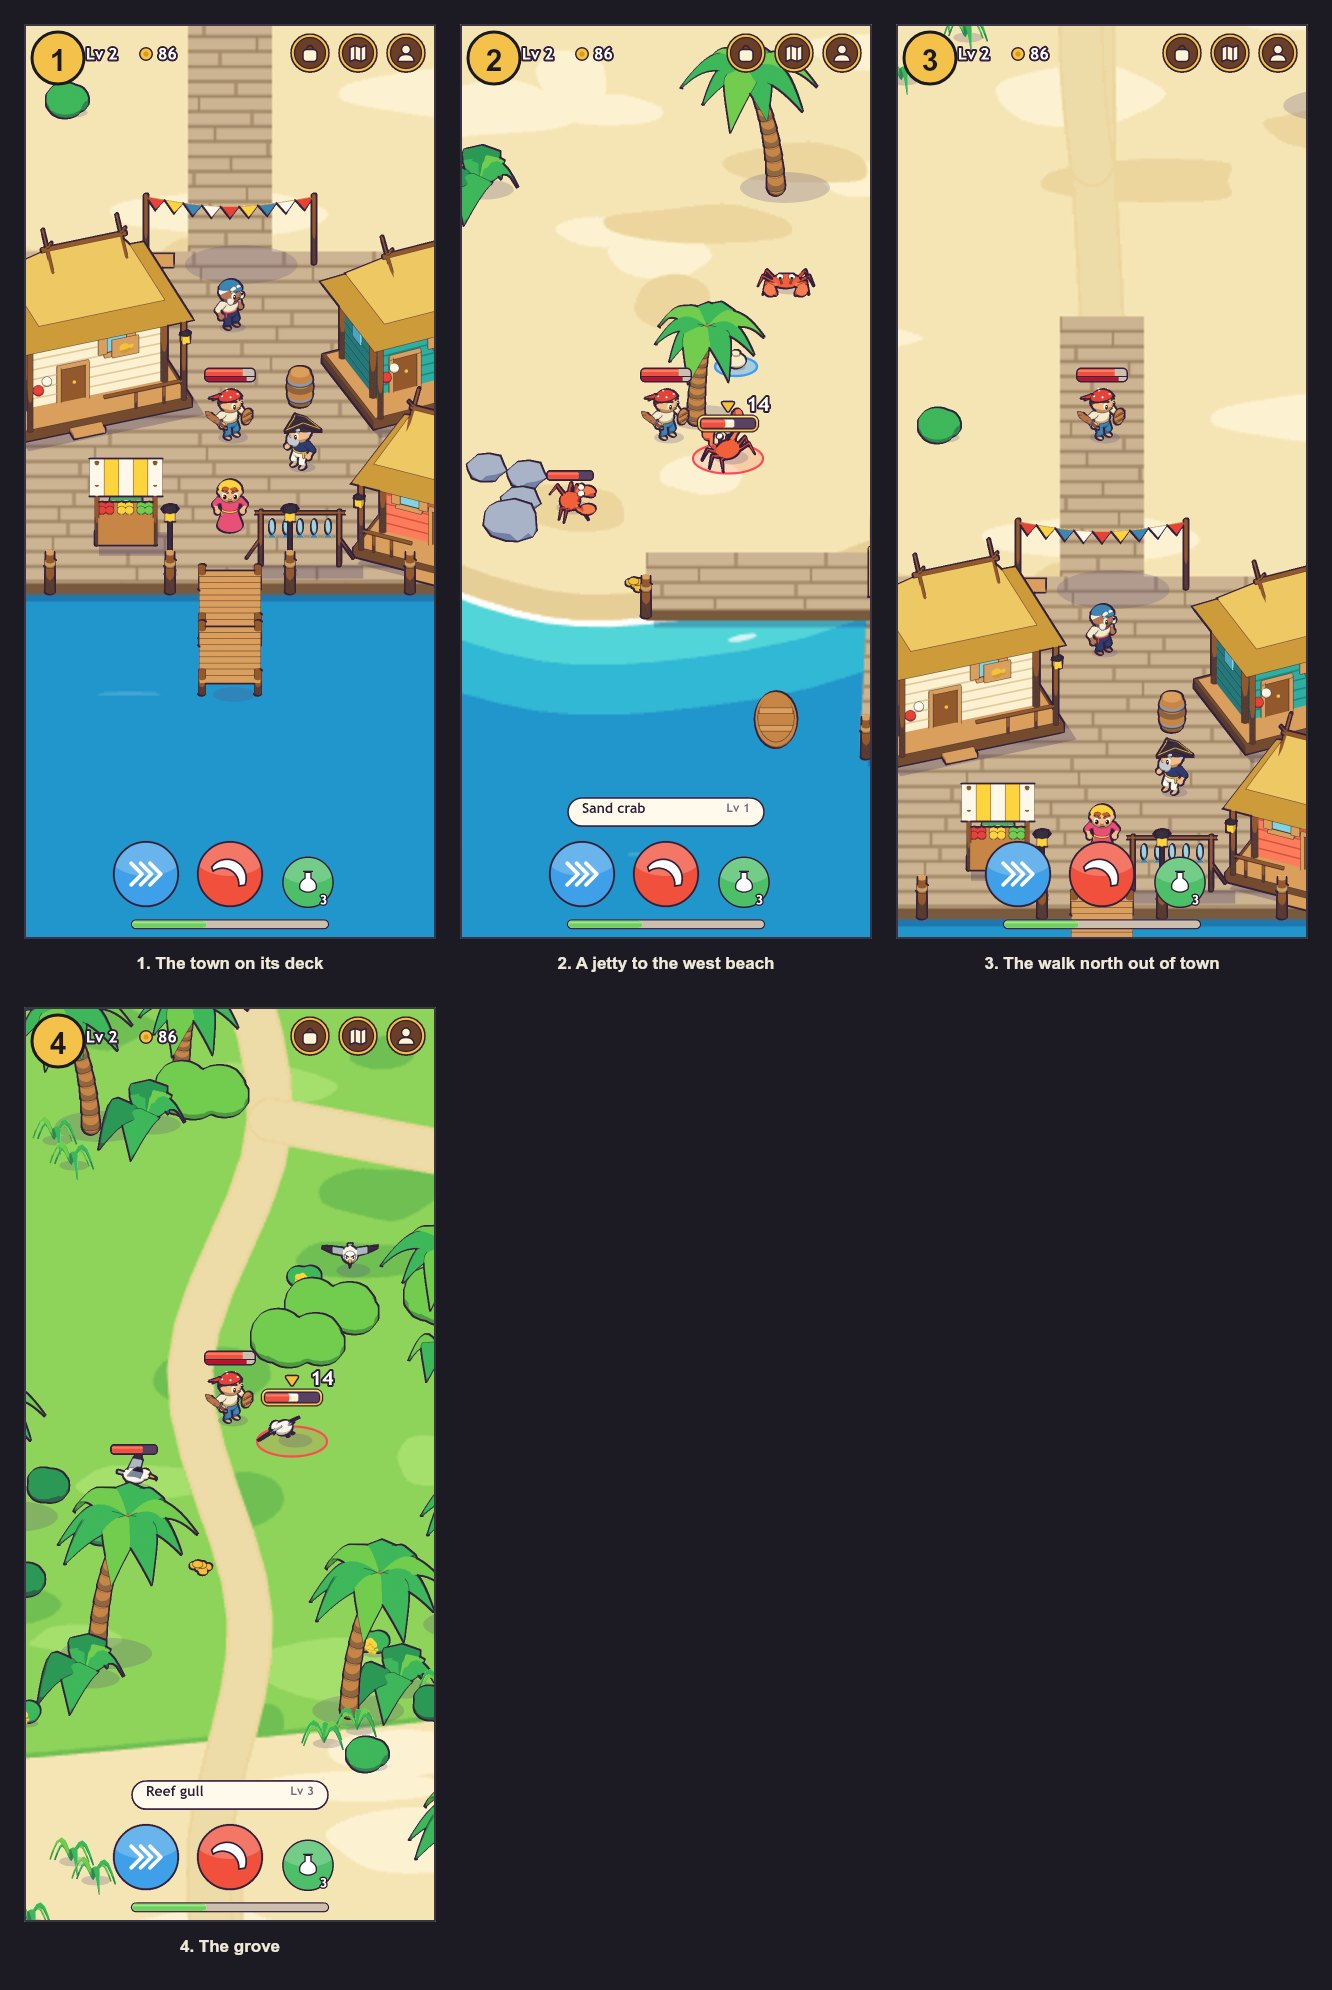
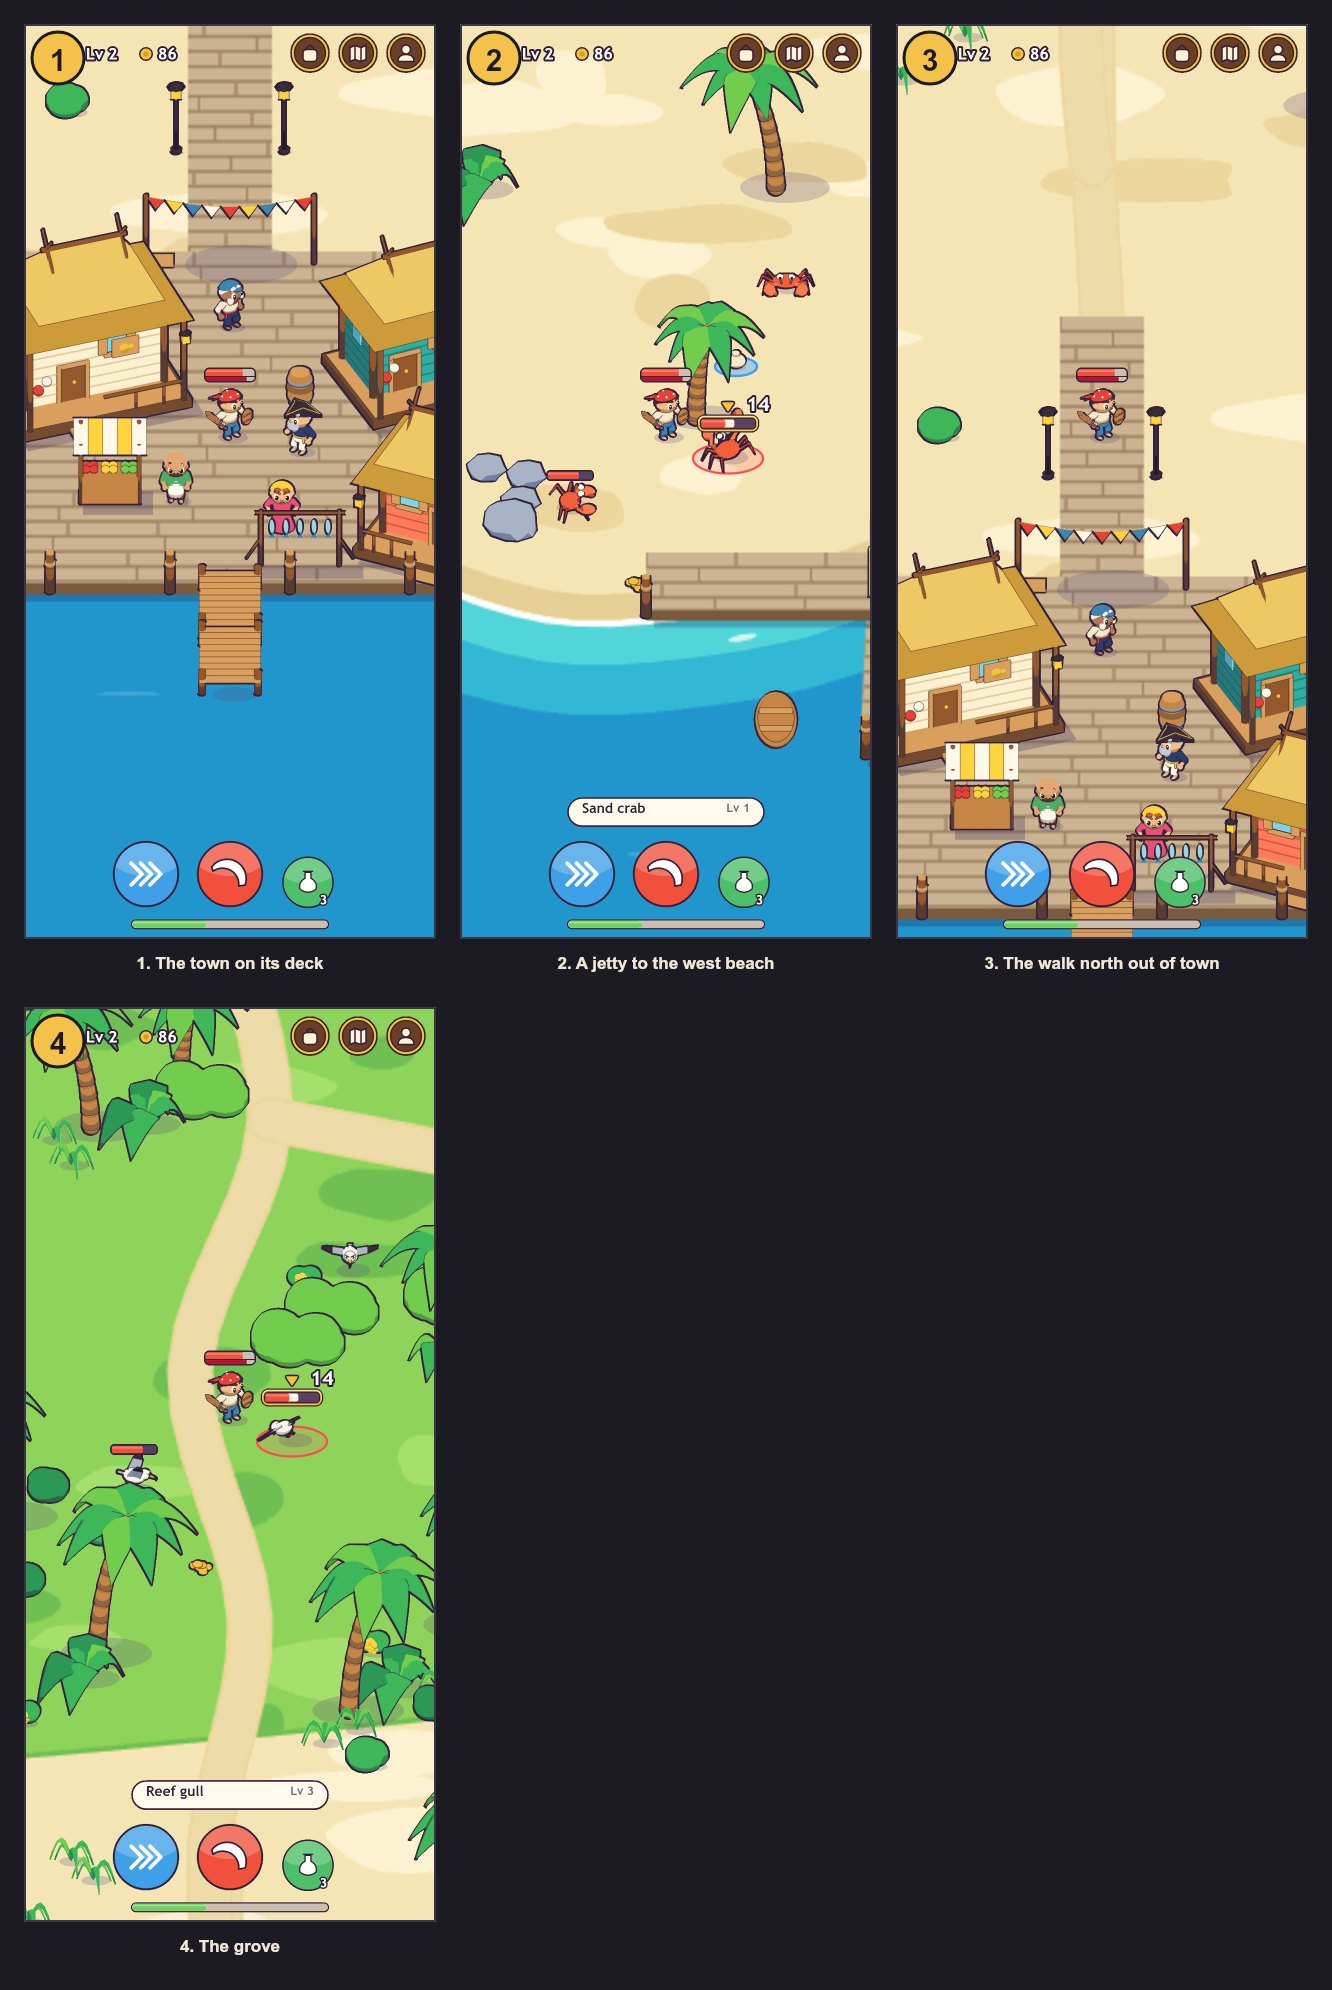
The town's layout again: the stall further north, nobody on the landing
Leonard, AD's place.json for Crab Cay again (his commits b3ffc9e and
9b91e85), the folder copied whole: the fisher stands behind her rack and
no longer where he steps ashore; the stall has 87 units of deck before
it where it had 38; its keeper stands beside it, not under its awning;
the two lamps stand either side of the walk north. No picture changed.

106 tests; the bot plays it through. In the muted pane: the town with
the new places, a tap by the stall brings the Trade button; no error.
The stall's window itself was not opened in the pane.

diff --git a/Game Developer/client/public/art/crab-cay/NOTES.md b/Game Developer/client/public/art/crab-cay/NOTES.md
@@ -52,9 +52,10 @@ Copy the folder. What is new for the game, beside what it already does with this
    shadow under it.** They are the three huts, the lookout, the stall and the fish rack. Every other prop gets its flat
    shadow as before.
 3. **`home`**: `outline`, `box` (909, 3320, 983 by 767), `wake` (1400, 3900: the middle of the deck) and `stall`
-   (1296, 3986). No monster inside the outline. The two level 1 crab zones lie west and east of it and are unchanged.
-4. **`people`**: the shopkeeper behind his stall (1296, 3968), the harbour master (1470, 3915), the fisher by the dock
-   (1400, 3975), the sailor at the way north (1400, 3775). Each has a `note`.
+   (1280, 3945: 87 units of deck before it, so a thumb has room). No monster inside the outline. The two level 1 crab zones lie west and east of it and are unchanged.
+4. **`people`**: the shopkeeper beside his stall (1346, 3949: behind it the awning hid him), the harbour master
+   (1470, 3900), the fisher behind her fish rack (1452, 3976), the sailor at the way north (1400, 3775). Each has a
+   `note`. Nobody stands on `arrive`.
 5. `dock` is 1400, 4030 and `arrive` 1400, 3976: he steps onto the deck. The two dock pieces are in `props`.
 6. `walk` is the dry sand as before, now with the bay in it. `ground.px` is 0.5 as before.
 
@@ -70,6 +71,8 @@ Copy the folder. What is new for the game, beside what it already does with this
 - **The level 1 crabs are reached over the two jetties,** the grove over the walk north. So a new player leaves town by
   a plank way whichever way he goes: the town has an edge.
 - **The stall, the sign and the lamps are the old harbour's.** They fit; say if they should be redrawn for this town.
+  The two lamps stand either side of the walk north (1346 and 1454, 3600), not at the dock's foot: there one hid the
+  fisher.
 
 ## Open
 
@@ -80,7 +83,9 @@ Copy the folder. What is new for the game, beside what it already does with this
 - The wreck on a reef with its hermit crab and its octopus waits for the second island. The two towns not picked (a
   port, a town built of ships) are in `concepts\town\` if another island wants one.
 
-**Not tested:** not in the game and not on a phone. The half-size ground was judged on this PC at a phone's sharpness.
+**Not tested:** not on a phone. The town is in the game (Victor, GD's commit 55c9ca8) and I saw it in the test copy
+drawing as these pictures; the places changed after that (the stall, the people, the lamps) are seen in my own
+drawing of the screen only. The half-size ground was judged on this PC at a phone's sharpness.
 The `solid` shapes are from the pieces' sizes, as before. The zones' boxes reach over a little water and rock in
 places; your rules already keep a monster off ground it cannot stand on.
 
